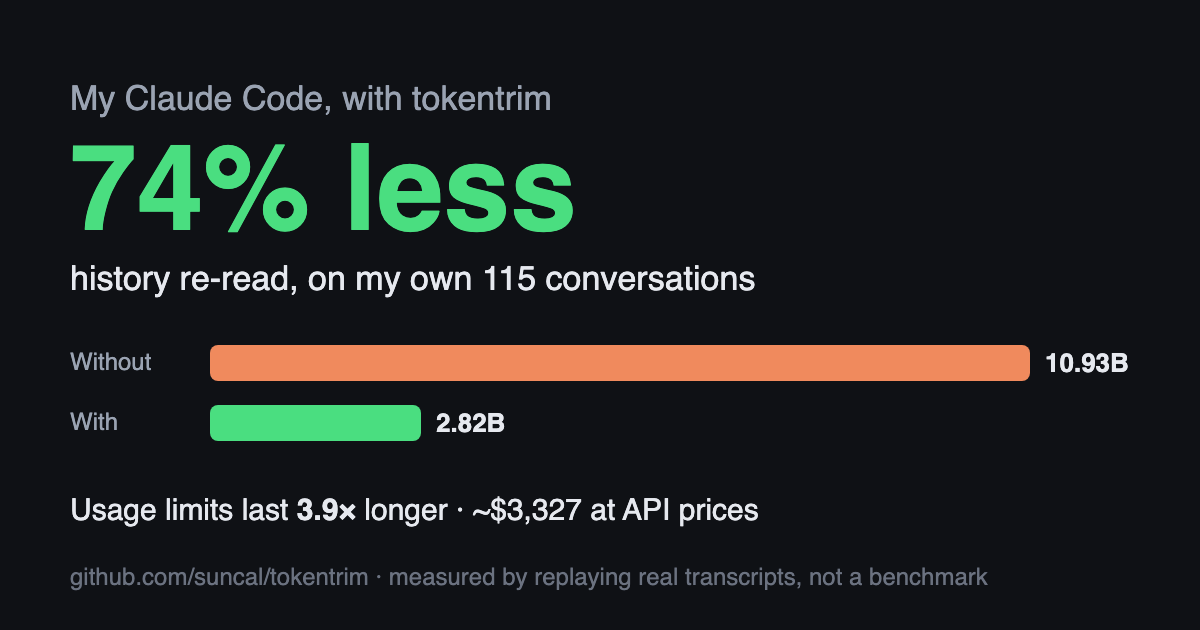
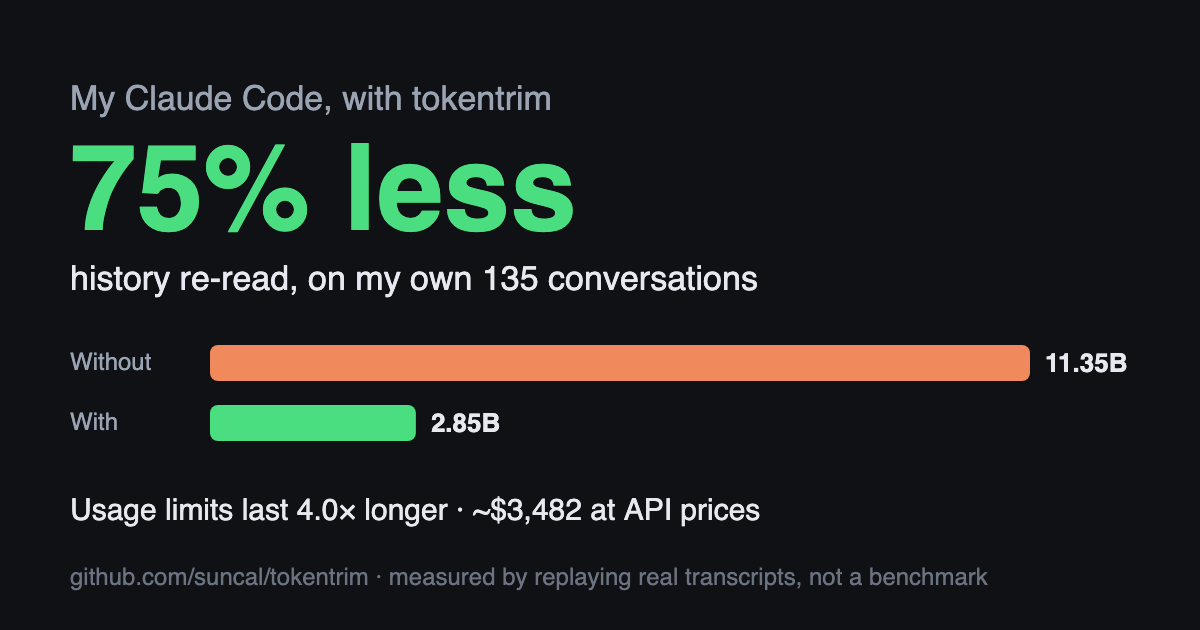
Refresh measured numbers: 135 sessions, 6.9% trim, 62/71/75% by profile

diff --git a/docs/index.html b/docs/index.html
@@ -4,10 +4,10 @@
 <meta charset="utf-8">
 <meta name="viewport" content="width=device-width, initial-scale=1, viewport-fit=cover">
 <title>tokentrim: make Claude Code limits last longer</title>
-<meta name="description" content="Claude Code re-reads your whole conversation on every step. tokentrim keeps it small: 74% less history re-read on real sessions, so usage limits last 3.9× longer. Free, open source, local-only. See your own number before installing.">
+<meta name="description" content="Claude Code re-reads your whole conversation on every step. tokentrim keeps it small: 75% less history re-read on real sessions, so usage limits last 4.0× longer. Free, open source, local-only. See your own number before installing.">
 <link rel="canonical" href="https://suncal.github.io/tokentrim/">
 <meta property="og:title" content="tokentrim: stop paying Claude to re-read your whole conversation">
-<meta property="og:description" content="74% less history re-read on 115 real Claude Code conversations. Free, open source, local-only. Run the replay and get your own number.">
+<meta property="og:description" content="75% less history re-read on 135 real Claude Code conversations. Free, open source, local-only. Run the replay and get your own number.">
 <meta property="og:image" content="https://raw.githubusercontent.com/suncal/tokentrim/main/docs/savings.png">
 <meta property="og:url" content="https://suncal.github.io/tokentrim/">
 <meta property="og:type" content="website">
@@ -384,7 +384,7 @@ footer{border-top:1px solid var(--line);padding:56px 0 40px;color:var(--mute);fo
       <div>
         <a class="badge" href="#install"><b>NEW</b>Now a one-command Claude Code plugin</a>
         <h1>Stop paying Claude to re&#8209;read <em>your whole conversation.</em></h1>
-        <p class="sub">On every step, Claude Code sends everything said so far back to the model. tokentrim keeps that history small. On 115 real conversations that meant <b>74% less re-read</b> and usage limits that lasted <b>3.9× longer</b>.</p>
+        <p class="sub">On every step, Claude Code sends everything said so far back to the model. tokentrim keeps that history small. On 135 real conversations that meant <b>75% less re-read</b> and usage limits that lasted <b>4.0× longer</b>.</p>
 
         <div class="install" id="install">
           <div class="tabs" role="tablist" aria-label="Install method">
@@ -415,23 +415,23 @@ footer{border-top:1px solid var(--line);padding:56px 0 40px;color:var(--mute);fo
       </div>
 
       <div>
-        <div class="term" role="img" aria-label="Example replay output: 10.93 billion tokens re-read without tokentrim, 2.81 billion with it, 74 percent less">
+        <div class="term" role="img" aria-label="Example replay output: 11.35 billion tokens re-read without tokentrim, 2.85 billion with it, 75 percent less">
           <div class="bar" aria-hidden="true"><i></i><i></i><i></i><span>~/tokentrim — replay</span></div>
           <pre aria-hidden="true"><span class="p">$</span> bin/tokentrim replay
-<span class="d">reading 115 conversations from ~/.claude …</span>
-<span class="d">24,706 steps · median step re-read 408k tokens</span>
+<span class="d">reading 135 conversations from ~/.claude …</span>
+<span class="d">28,854 steps · median step re-read 347k tokens</span>
 
-<div class="meter"><span>without</span><div class="t"><div class="f" data-w="100" style="background:#f08a5d"></div></div><span class="n">10.93B</span></div><div class="meter"><span>with (strong)</span><div class="t"><div class="f" data-w="25.8" style="background:#4ade80"></div></div><span class="n">2.81B</span></div>
-<div class="big"><b>−74%</b> history re-read
-limits last <b>3.9×</b> longer · ~$3.3K at API prices</div><span class="caret"></span></pre>
+<div class="meter"><span>without</span><div class="t"><div class="f" data-w="100" style="background:#f08a5d"></div></div><span class="n">11.35B</span></div><div class="meter"><span>with (max)</span><div class="t"><div class="f" data-w="25.1" style="background:#4ade80"></div></div><span class="n">2.85B</span></div>
+<div class="big"><b>−75%</b> history re-read
+limits last <b>4.0×</b> longer · ~$3.5K at API prices</div><span class="caret"></span></pre>
         </div>
         <p class="fine term-note">The author's own sessions. The replay shows you yours.</p>
       </div>
     </div>
 
     <div class="stats reveal">
-      <div><b class="g">−74%</b><span>history re-read, on 115 real conversations</span></div>
-      <div><b>3.9×</b><span>longer before you hit usage limits</span></div>
+      <div><b class="g">−75%</b><span>history re-read, on 135 real conversations</span></div>
+      <div><b>4.0×</b><span>longer before you hit usage limits</span></div>
       <div><b>6 CI targets</b><span>macOS and Linux, Python 3.9 to 3.13</span></div>
       <div><b>0 bytes</b><span>of your code or prompts sent anywhere</span></div>
     </div>
@@ -455,7 +455,7 @@ limits last <b>3.9×</b> longer · ~$3.3K at API prices</div><span class="caret"
         <div class="bars" data-mode="trim"></div>
         <div class="tot" style="color:var(--green)">2.81B<small>tokens re-read</small></div>
       </div>
-      <div class="note"><span>Each bar is one step of a long session. <b>Every bar gets paid for again.</b></span><span>Shrinking tool output alone saved <b>6.5%</b>. Keeping the conversation small saved <b>74%</b>.</span></div>
+      <div class="note"><span>Each bar is one step of a long session. <b>Every bar gets paid for again.</b></span><span>Shrinking tool output alone saved <b>6.9%</b>. Keeping the conversation small saved <b>75%</b>.</span></div>
     </div>
 
     <div class="compare reveal">
@@ -464,7 +464,7 @@ limits last <b>3.9×</b> longer · ~$3.3K at API prices</div><span class="caret"
           <thead><tr><th scope="col">&nbsp;</th><th scope="col">Shrinking tool output only</th><th scope="col">tokentrim</th></tr></thead>
           <tbody>
             <tr><th scope="row">What it targets</th><td>Tool output size</td><td class="us">The history re-read on every step</td></tr>
-            <tr><th scope="row">Saving on the same 115 conversations</th><td>6.5%</td><td class="us">74% less re-read</td></tr>
+            <tr><th scope="row">Saving on the same 135 conversations</th><td>6.9%</td><td class="us">75% less re-read</td></tr>
             <tr><th scope="row">Proof before you install</th><td><span class="n">Usually a vendor benchmark</span></td><td class="us"><span class="y">✓</span> A replay of your own transcripts</td></tr>
           </tbody>
         </table>
@@ -563,7 +563,7 @@ limits last <b>3.9×</b> longer · ~$3.3K at API prices</div><span class="caret"
     </div>
     <ul>
       <li class="reveal"><b>The trade-off is real</b>Summarising sooner means Claude forgets detail sooner. The default, strong, behaves close to Claude Code's old 200k window. Balanced is gentler; max is cheapest.</li>
-      <li class="reveal"><b>Cost drops less than tokens</b>Re-reads are cheap per token and output isn't touched, so billed cost and limit burn fall about 55–70%, not 74%.</li>
+      <li class="reveal"><b>Cost drops less than tokens</b>Re-reads are cheap per token and output isn't touched, so billed cost and limit burn fall about 55–70%, not 75%.</li>
       <li class="reveal"><b>Your number will differ</b>Short sessions re-read little, so they save little. That's why the replay comes first, before you install anything.</li>
       <li class="reveal"><b>Not affiliated with Anthropic</b>tokentrim uses Claude Code's public hooks and settings. It doesn't patch Claude Code or touch your account.</li>
     </ul>
@@ -658,7 +658,7 @@ limits last <b>3.9×</b> longer · ~$3.3K at API prices</div><span class="caret"
       <details><summary>Does anything leave my machine?</summary><p>No. The free tool reads transcripts Claude Code already stores locally and never sends them anywhere. Pro's license check sends only your key and a machine label. The hosted Pro dashboard receives totals and project folder names only, never prompts or code. Slack posting is opt-in and sends weekly totals only.</p></details>
       <details><summary>Plugin or full install: which should I use?</summary><p>The plugin is one command and adds the hooks plus <code>/tokentrim:replay</code>, <code>/tokentrim:dashboard</code> and <code>/tokentrim:share</code>. A plugin can't set the compaction window, which is where most of the saving comes from, so also run <code>tokentrim install</code> from a clone if you want it. Having both is safe: the plugin's hooks stand down while the full install's hooks are active, so nothing runs twice.</p></details>
       <details><summary>Can it pick the best model for each message?</summary><p>Not per message: Claude Code has no switch for that. Smart model uses Claude Code's own opusplan (Opus plans, Sonnet does the work), and pairs well with cheaper sub-agents, lower effort and the model advisor. Model changes apply to new sessions; <code>/model</code> in a session still wins.</p></details>
-      <details><summary>I'm on a Pro or Max plan, not paying per token. Does this help?</summary><p>Yes, and it's the main reason most people use it. Plan limits are spent on the same tokens, so re-reading less means hitting the 5-hour and weekly limits later. On the author's usage, limits lasted 3.9× longer.</p></details>
+      <details><summary>I'm on a Pro or Max plan, not paying per token. Does this help?</summary><p>Yes, and it's the main reason most people use it. Plan limits are spent on the same tokens, so re-reading less means hitting the 5-hour and weekly limits later. On the author's usage, limits lasted 4.0× longer.</p></details>
       <details><summary>Will Claude forget things?</summary><p>It summarises earlier, so very old detail in a long conversation gets condensed sooner. The default profile behaves close to how Claude Code worked with a 200k window. If you notice it, switch to <code>balanced</code> with one command.</p></details>
       <details><summary>How do I undo it?</summary><p><code>tokentrim uninstall</code> removes exactly what install added. Your settings were backed up before install, your own hooks are left alone, and one config flag turns every hook off instantly. Remove the plugin with <code>claude plugin uninstall tokentrim@tokentrim</code>.</p></details>
       <details><summary>What do I need?</summary><p>Claude Code and Python 3.9 or newer. No packages to install. It's tested on macOS and Linux. The Pro Monday digest schedules itself on macOS; elsewhere you can run <code>tokentrim digest</code> from your own scheduler.</p></details>

diff --git a/README.md b/README.md
@@ -15,7 +15,7 @@
 
 [Website](https://suncal.github.io/tokentrim/) · [Quick start](#quick-start) · [The honest numbers](#the-honest-numbers) · [What it changes](#what-it-changes) · [Pro](#pro) · [Discussions](https://github.com/suncal/tokentrim/discussions)
 
-![74% less history re-read on 115 real conversations; usage limits last 3.9x longer](docs/savings.png)
+![75% less history re-read on 135 real conversations; usage limits last 4.0x longer](docs/savings.png)
 
 </div>
 
@@ -31,7 +31,7 @@ Undo any time with `bin/tokentrim uninstall`. No dependencies, nothing leaves yo
 
 ## Why it works
 
-**What you're missing out on without it:** Claude Code re-reads your *whole* conversation on every step. On the author's real usage, 74% of that re-reading was avoidable. Run `bin/tokentrim replay` to get **your own** number in about a minute, before installing anything.
+**What you're missing out on without it:** Claude Code re-reads your *whole* conversation on every step. On the author's real usage, 71–75% of that re-reading was avoidable, depending on the profile. Run `bin/tokentrim replay` to get **your own** number in about a minute, before installing anything.
 
 Most "save 90% tokens" tools shrink tool output. That's the wrong target. In an agent loop, about 98% of the input tokens you're billed for are **cache reads**: Claude Code re-sends the *entire* context on every API call. A session carrying 400k tokens of context pays for those 400k again on each step.
 
@@ -45,17 +45,17 @@ No dependencies (Python 3.9+ stdlib), nothing leaves your machine, and every hoo
 
 ## The honest numbers
 
-From the author's 103 real sessions (24,706 API calls, 10.9 billion context tokens):
+From the author's 135 real sessions (28,854 API calls, 11.3 billion context tokens), re-measured 20 Oct 2026:
 
 | | context tokens re-sent | cut |
 |---|---|---|
-| as it happened | 10,879,692,996 | — |
-| output trimming only (hooks) | 10,171,940,933 | **6.5%** |
-| + `balanced` profile (300k window) | | **66.5%** |
-| + `strong` profile (200k window, default) | | **74.5%** |
-| + `max` profile (150k window) | | **78.0%** |
+| as it happened | 11,349,251,410 | — |
+| output trimming only (hooks) | 10,568,885,015 | **6.9%** |
+| + `balanced` profile (300k window) | 4,297,754,626 | **62.1%** |
+| + `strong` profile (200k window, default) | 3,282,583,187 | **71.1%** |
+| + `max` profile (150k window) | 2,853,060,084 | **74.9%** |
 
-Why compaction dominates: the median API call carried **408k tokens** of context. 25 sessions that ran 300+ calls produced 93% of all cache reads. Context grows, and every later step re-pays for all of it.
+Why compaction dominates: the median API call carried **347k tokens** of context. 30 sessions that ran 300+ calls produced 93% of all cache reads. Context grows, and every later step re-pays for all of it.
 
 **Why it isn't 90%:** Claude Code's own system prompt, tool schemas and app instructions are about 40–60k tokens on every call, and no setting removes them. Once sessions are capped, that floor is most of what's left. Anyone promising 90% across *all* work is either measuring a single noisy `npm install` or not measuring.
 
